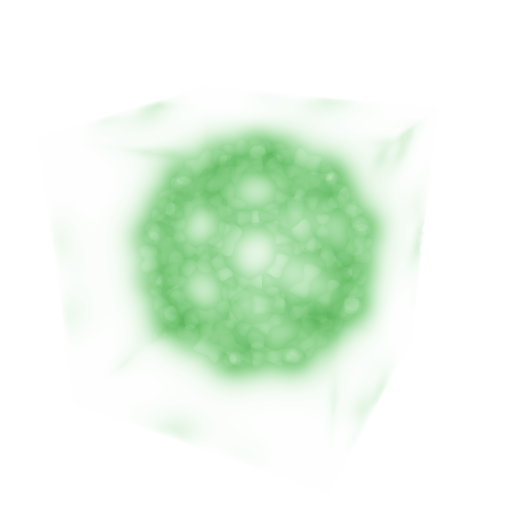
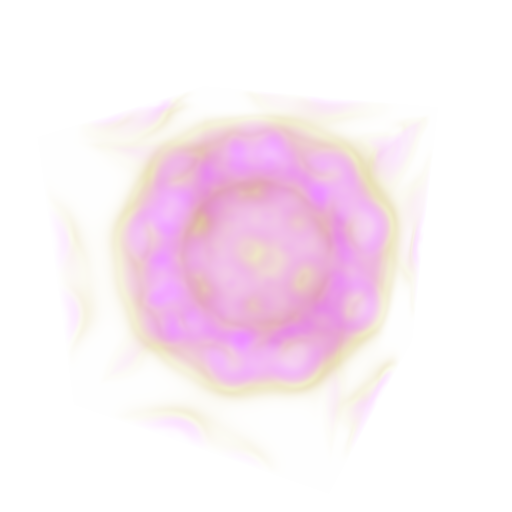
Initial TF tests

diff --git a/VolumeRender/RayMarching.h b/VolumeRender/RayMarching.h
@@ -11,15 +11,18 @@
 #include "Camera.h"
 #include "ScalarField.h"
 #include "Film.h"
+#include "TransferFunction.h"
 
-// Initial RayMarching function
+ // Initial RayMarching function
 CUDA_GLOBAL void RayMarchVolume(
 	const ScalarFieldDescription* field_description,	// Description of the scalar field to render
 	const float* field_data,							// Actual field data
 	const Camera* camera,								// Camera to use
 	const FilmDescription* film_description,			// Description of the film used
 	Spectrum* film_raster,								// Film raster
-	float marching_delta								// Step to use in the marching process
+	float marching_delta,								// Step to use in the marching process
+	const TF1D* transfer_function,                      // Transfer function
+	const TF1DControlPoint* tf_control_points           //Transfer function control points
 );
 
 #endif /* RAYMARCHING_H_ */
